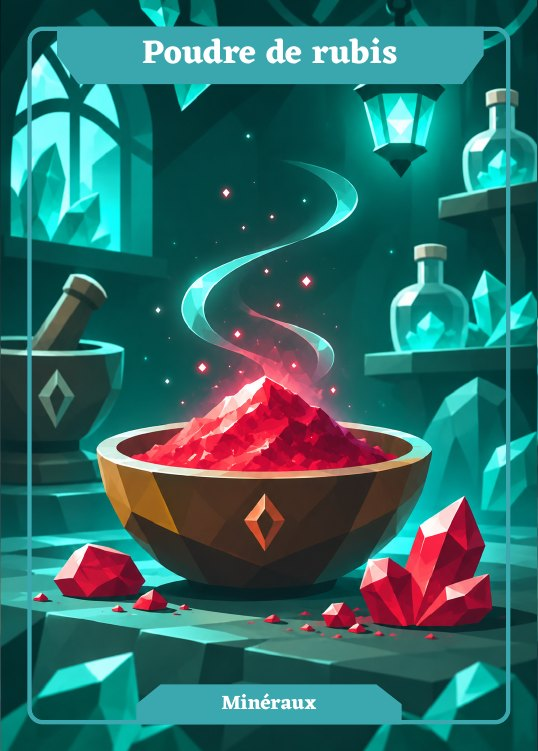
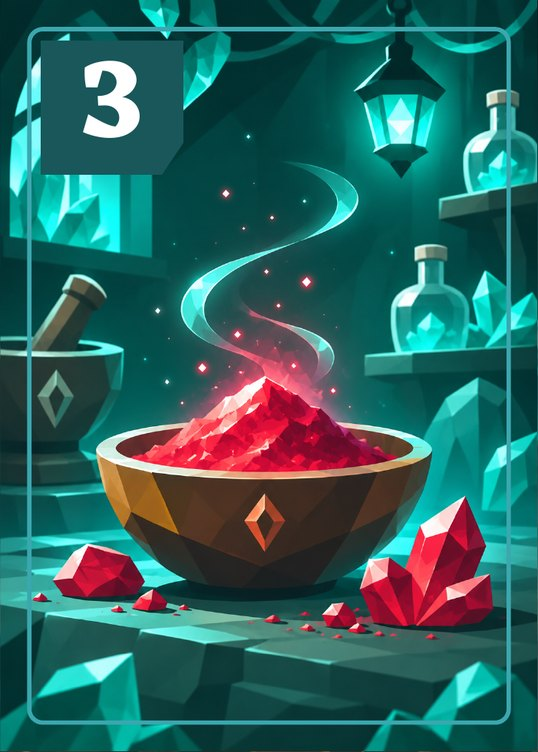
Version 6.1.0 : nouvelles images des cartes (Cartes_APP.pdf), plus de nom sous les cartes
Claude-Session: https://claude.ai/code/session_01GeB1pm7GgfYAmUdKEfk1z2

diff --git a/version.js b/version.js
@@ -9,9 +9,13 @@
      X = grosse refonte, Y = nouvelle fonction, Z = petite correction
    ========================================================= */
 
-const VERSION = { numero: '6.0.1', date: '2026-11-07' };
+const VERSION = { numero: '6.1.0', date: '2026-11-07' };
 
 const HISTORIQUE = [
+  { numero: '6.1.0', date: '2026-11-07', nouveautes: [
+    "Nouvelles images des 24 cartes ingrédients (PDF Cartes_APP).",
+    "Plus de nom sous les cartes : la grande icône de réponse est juste sous la carte.",
+  ]},
   { numero: '6.0.1', date: '2026-11-07', nouveautes: [
     "L'écran de préparation (sorcières, familles, options) défile de nouveau au doigt.",
   ]},

diff --git a/moteur.js b/moteur.js
@@ -786,7 +786,7 @@ function majPlateau() {
       const ing = ING(n);
       box.insertAdjacentHTML('beforeend', `<div class="emplacement plein${i === S.brassage.length - 1 && S.phase === 'brassage' ? ' retirable' : ''}" style="--c:${couleurFamille(ing.fam)}">
         <span class="rang"><span>${i + 1}</span></span>${carteIngredient(ing)}
-        <span class="nom-sous">${sansCesure(ing.nom)}</span><img class="reponse" id="rep-${i}" alt=""></div>`);
+        <img class="reponse" id="rep-${i}" alt=""></div>`);
     } else {
       box.insertAdjacentHTML('beforeend', `<div class="emplacement">${i + 1}</div>`);
     }

diff --git a/theme.css b/theme.css
@@ -998,3 +998,8 @@ body.eclairage::after { opacity: 1; }
 #ecran-preparation { overflow-y: auto; overflow-x: hidden; overscroll-behavior: contain; -webkit-overflow-scrolling: touch; touch-action: pan-y; }
 #ecran-preparation.actif { padding-bottom: max(28px, env(safe-area-inset-bottom)); }
 #ecran-preparation > * { flex-shrink: 0; }
+
+/* --- 6.1.0 : plus de nom sous les cartes (il est sur l'image) ; la grande icône remonte juste sous la carte --- */
+.emplacement .nom-sous { display: none; }
+.emplacement .reponse { top: calc(100% + 10px); }
+.plateau { padding-bottom: calc(var(--lc) * .8 + 14px); }
